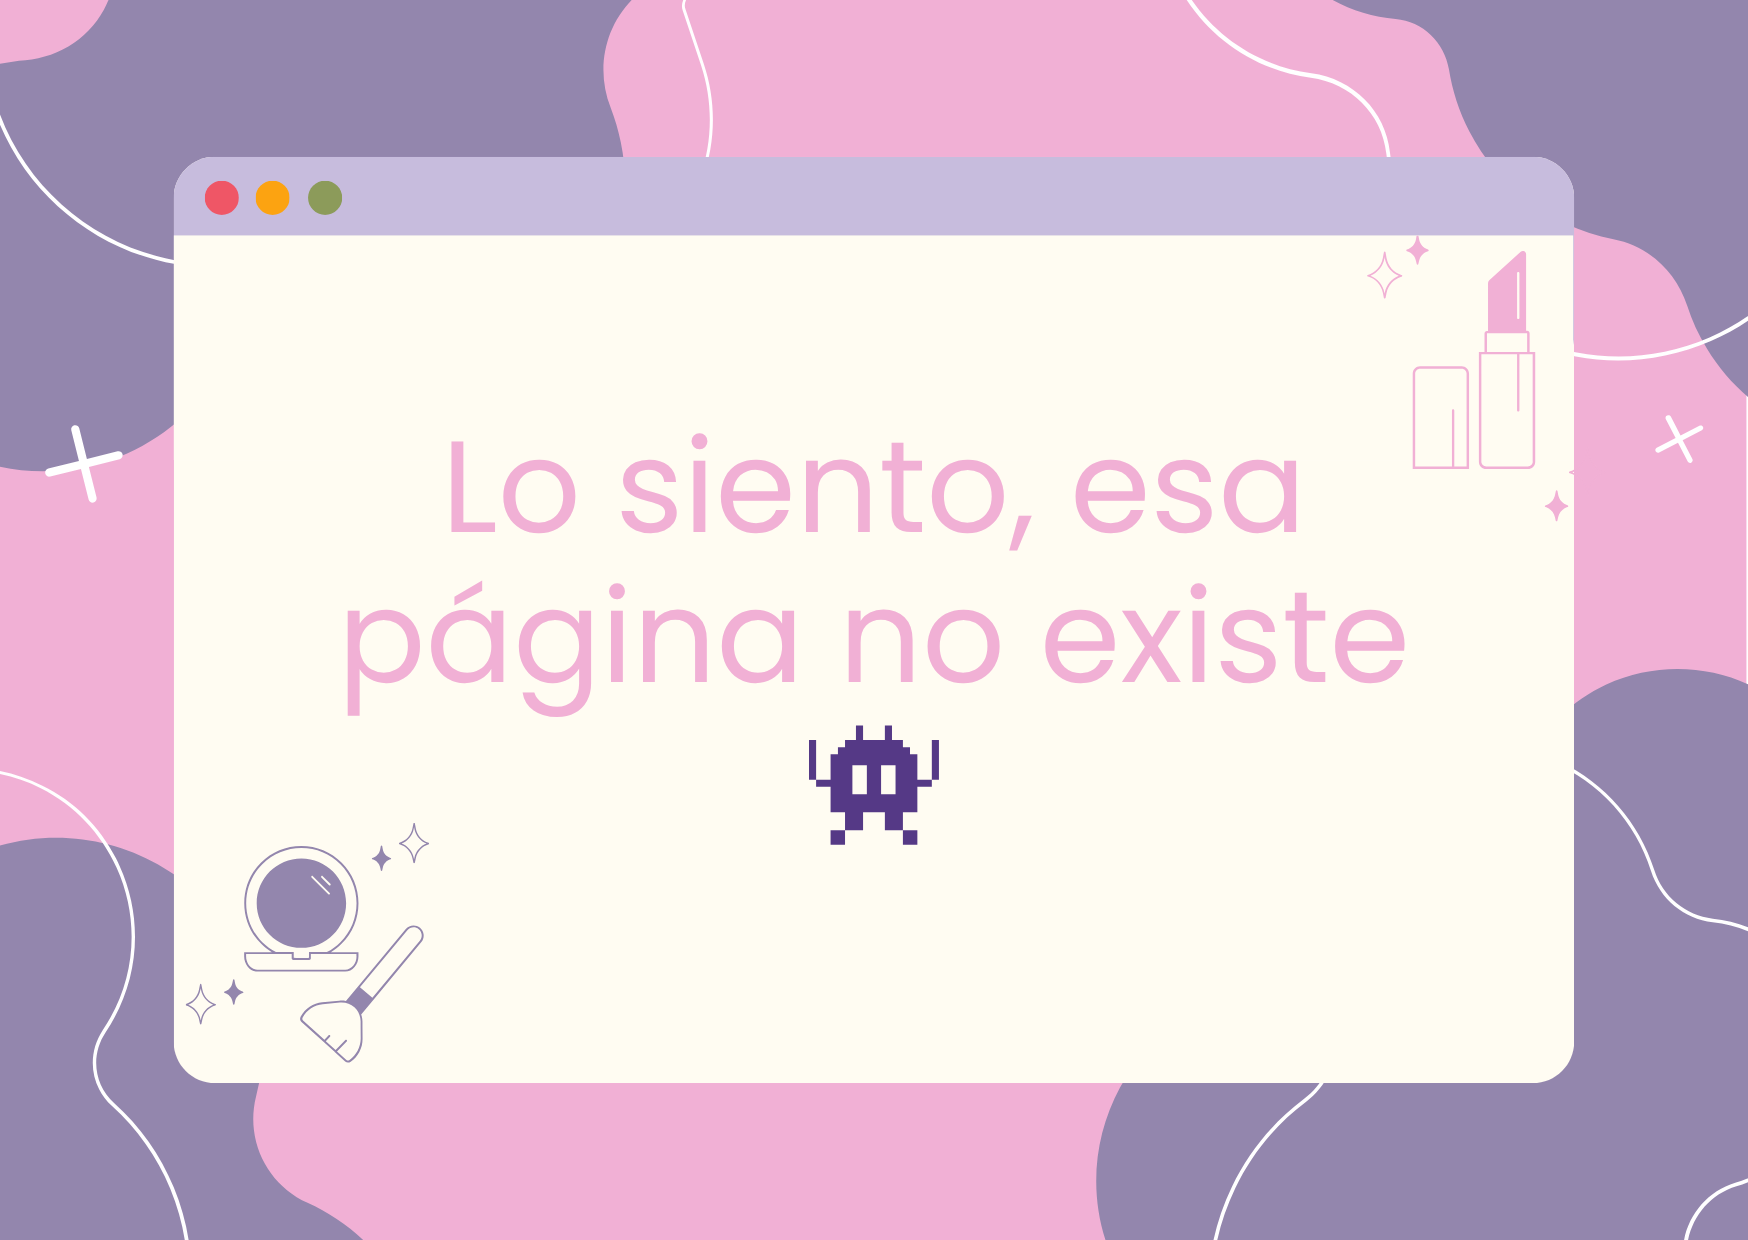
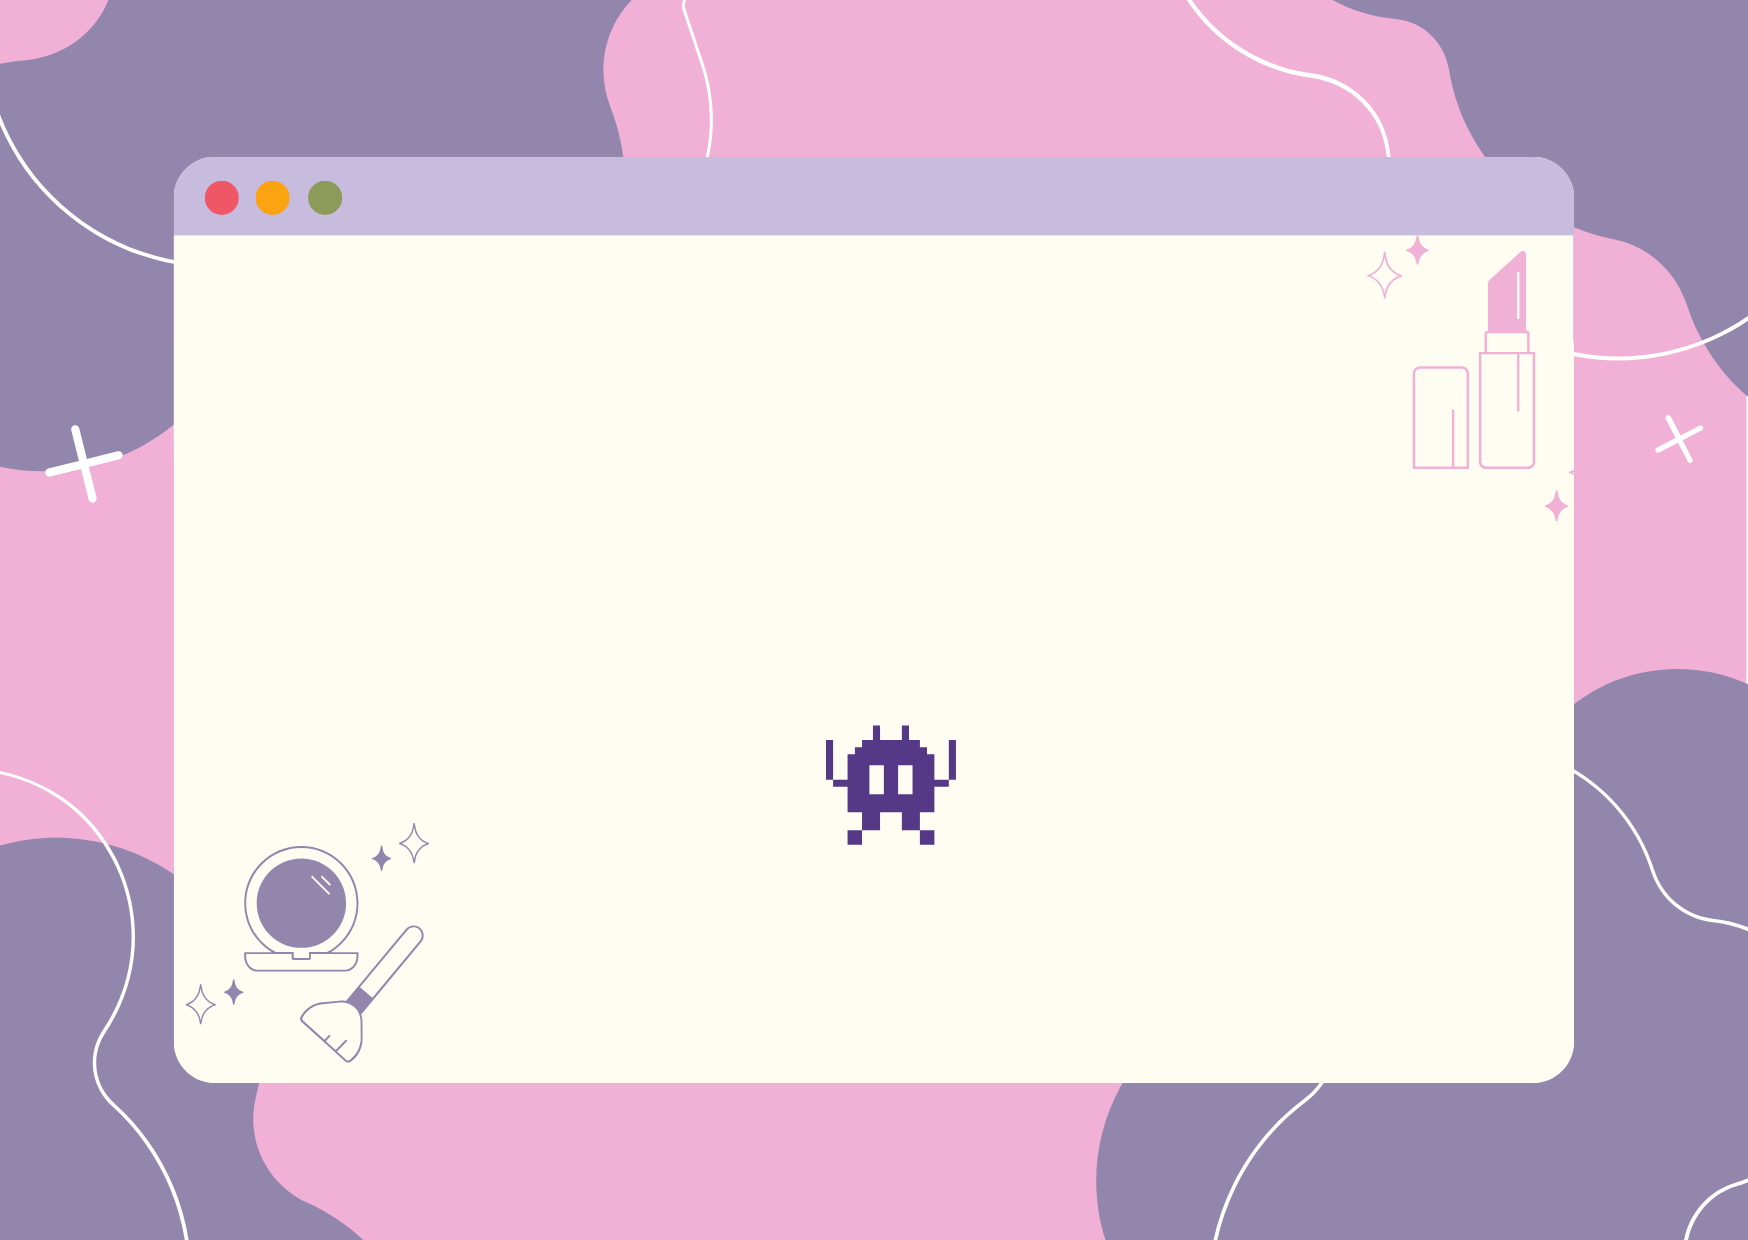
Reutilizo componente de error

diff --git a/src/components/ItemDetailContainer.jsx b/src/components/ItemDetailContainer.jsx
@@ -5,6 +5,7 @@ import ItemDetail from "./ItemDetail";
 import LoaderComponent from "./LoaderComponent";
 import { db } from "../Firebase";
 import { doc, getDoc } from "firebase/firestore";
+import ErrorPage from "./ErrorPage";
 
 const ItemDetailContainer = () => {
   const [detail, setDetail] = useState({});
@@ -44,11 +45,7 @@ const ItemDetailContainer = () => {
         {loading ? (
           <LoaderComponent />
         ) : invalid ? (
-          //TODO: Acomodar clase error para mostrar este mensaje
-          <div className="center-column mt-2">
-            <h1>Producto no encontrado 🤔</h1>
-            <Link to="/" className="btn mt-2">Volver al inicio</Link>
-          </div>
+          <ErrorPage message="Producto no encontrado 🤔" />
         ) : (
           <ItemDetail detail={detail} />
         )}

diff --git a/src/App.jsx b/src/App.jsx
@@ -30,7 +30,10 @@ function App() {
           <Route path="/item/:id" element={<ItemDetailContainer />} />
           <Route path="/cart" element={<CartContainer />} />
           <Route path="/checkout" element={<CheckoutHook />} />
-          <Route path="*" element={<ErrorPage />} />
+          <Route
+            path="*"
+            element={<ErrorPage message="Lo siento, esa página no existe!" />}
+          />
         </Routes>
       </CartProvider>
     </BrowserRouter>

diff --git a/src/components/ErrorPage.jsx b/src/components/ErrorPage.jsx
@@ -1,9 +1,10 @@
 import React from "react";
 
-const ErrorPage = () => {
+const ErrorPage = ({message}) => {
   return (
     <div className="page-error">
-      <a className="btn btn-error" href="/">
+      <h1>{message}</h1>
+      <a className="btn btn-error mt-2" href="/">
         Volver al inicio
       </a>
     </div>

diff --git a/src/styles/components/_errorPage.scss b/src/styles/components/_errorPage.scss
@@ -6,7 +6,7 @@
     height: 100vh;
     width: 100%;
     display: flex;
-    justify-content: flex-end;
+    justify-content: center;
     align-items: center;
     flex-direction: column;
     padding-bottom: 7%;
